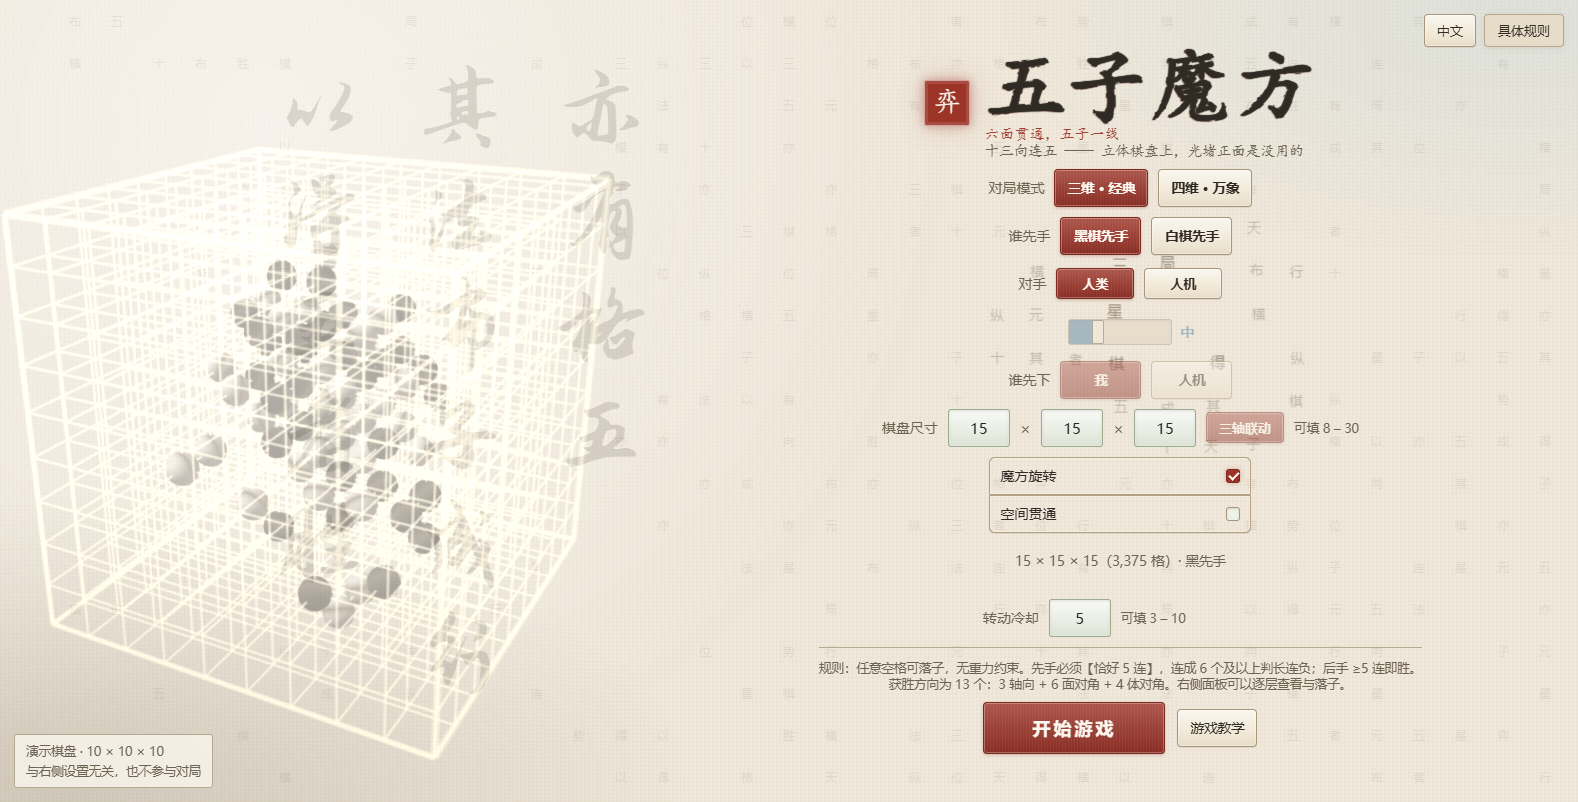
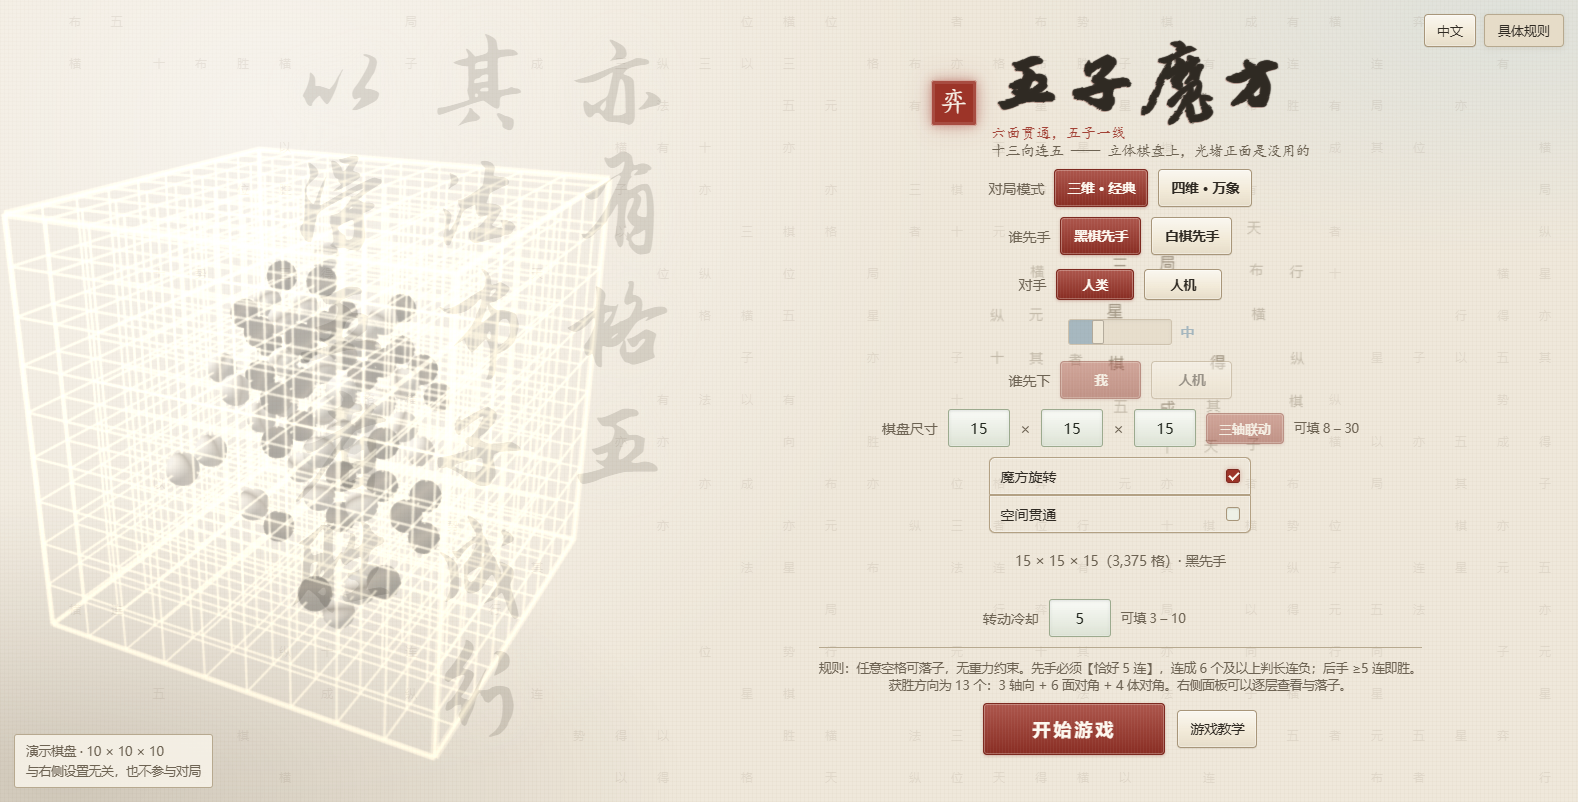
v3.1.6 主标题改行书；修西里尔字母被画成全角；两行小字按语言折行；水印右移放大
【1. 俄语"太长"其实是一个字体回退 bug，不是排版问题】
  .serif 写死了 "KaiTi, STKaiti, …, SimSun"，而标题块三行（h1/.tagline/.sub）
  都挂着这个类。楷体【没有西里尔字形】-> 回退到宋体，而【宋体把西里尔按全角画】。
  实测「Тринадцать направлений — на 3D-доске защиты спереди недостаточно」
  自然宽 856px（65 字符平均 13.2px，几乎一个汉字宽）。
  给 .serif 补上 html.lang-en/fr/ru 的衬线栈（Georgia / Times New Roman）之后是 485px
  —— 窄了 43%；副标题同时 467 -> 255px。
  【这类 bug 的教训】页面本来就有按语言换 body 字体栈的规则，但**类选择器会把它覆盖掉**；
  加"装饰类"时必须同时给它一份按语言的栈。

【2. 两行小字按语言分别定宽度】
  量的是【自然宽】，max-width 卡在中间那条缝里：
    · 副标题  17em：en 223 / fr 239 放得下，ru 255 放不下
      -> 英法一行、俄语两行（"英语没必要另起一行"是明确要求）
    · 下面那行 31.5em：en 444 一行，ru 485 两行 -> 只有俄语折
  下面那行的行高跟着 .95 -> 1.05（原来只服务单行；折两行时 .95 会让字叠在一起）。

【3. 主标题 81px 改成 min(81px, 7.8vw)】
  固定 px 在窄窗口撑破面板：900×700 时留给标题的只有约 402px，
  而 "Gomokube" 在 Georgia 下 81px 要 ~418px —— 实测溢出 27px。
  标题能占的宽 ≈ 0.58×视口 − 120，最长标题约 5.0×字号 + 16 —— 反解得斜率 ~7.8vw。

【4. 主标题改行书】
  标题块原来是楷体（一笔一画、很"板正"）。把水印那支内联字体（Zhi Mang Xing）
  的子集从 14 字扩到 16 字（+魔 +方），woff2 只大了 934 字节（5,556B / base64 7,408B）。
  只挂 html.lang-zh：那支字体只有这 16 个汉字，挂到别的语言只会掉进回退链；
  而且它 (1,1,1) 的选择器能压过 html.lang-en/fr/ru .serif (0,1,2)，
  不会把第 1 条刚修好的东西又打回去。字体栈里留了 STXingkai 当兜底（本机有，不能嵌入）。

【5. 水印整块往右平移 + 放大】
  两条都有硬限制，数字是算出来的：
    · 放大受【高度】卡：最长那列 6 个字要塞进 (100vh − 2×内边距)。
      内边距 7vh->3vh（可用 94vh）、字距 .04em->.01em，字号上限 13vh -> 15vh。
    · 右移受【设置区文字】卡：法语内容最左沿在窄视口下落在 44.4%，右缘最多到 43.5%。
    · 列距 1.35->1.15：字形大了 15%，整块却没变宽，多出来的位移才是真的往右挪。
  实测外框 x 248..670 -> x 279..694（左右都右移），字号 104 -> 120px。

【测试】新增/加严：
[…]

diff --git a/Web_Gomoku3D/index.html b/Web_Gomoku3D/index.html
@@ -555,7 +555,15 @@
   /* 【v3.1.6 放大到 81px】一路 38 -> 54 -> 81（+50%）。放大是有代价的：
      标题块那一行跟着长高，而「六种语言都不用滚动就看得见」那条断言的余量只剩个位数 ——
      见 #setup 那段"第三次收"的注释。这一版从 #ruleNote 的行高里把这一行还了回去。 */
-  #setup h1 { font-size: 81px; margin: 0; font-weight: 600; letter-spacing: 2px; }
+  /* 【81px 是上限，不是定值】固定 px 在窄窗口上会撑破面板：900×700 时 #setup 只有
+     462px 内容宽，减掉印章和间距留给标题的约 402px，而 "Gomokube" 在 Georgia 下
+     81px 要 ~418px —— 实测溢出 27px，"窄屏+英文没有横向滚动"那条断言当场红。
+     标题能占的宽 ≈ 0.58×视口 − 120（面板 58%、内边距 60、印章+间距 60），
+     而最长的标题（Gomokube，8 个字符）约 5.0×字号 + 16px 字距 ——
+     反解出字号 ≤ 0.116×视口 − 27。取 7.8vw 是这条线的一个保守近似：
+       1600/1280/1080 下都是 81px（不缩），900 下 70px，701 下 55px。
+     【为什么不做成 max-width + 省略号】标题被截断比小一号难看得多。 */
+  #setup h1 { font-size: min(81px, 7.8vw); margin: 0; font-weight: 600; letter-spacing: 2px; }
   #setup .sub { color: var(--dim); font-size: 14.5px; margin-top: 4px; }
   .row { display: flex; align-items: center; gap: 10px; flex-wrap: wrap; justify-content: center; }
   /* 每一行占一个固定高度的槽位。三种模式相关的行（三维尺寸 / 四维尺寸 / 转动冷却）
@@ -1029,6 +1037,23 @@
     font-family: "Malgun Gothic", "Apple SD Gothic Neo", "Noto Sans KR",
                  system-ui, sans-serif;
   }
+  /* 【v3.1.6 补：.serif 也得跟着语言换 —— 上面那几条只换了 body】
+     `.serif` 是个类，它把字体栈【又覆盖回】楷体/宋体；而标题块那三行
+     （h1 / .tagline / .sub）都挂着这个类。于是英文/俄语/法语的标题其实是
+     用中文书法字体渲染的。
+     后果在俄语上最刺眼：KaiTi 没有西里尔字形 -> 回退到 SimSun，
+     而【宋体把西里尔字母画成全角宽】。实测「Тринадцать направлений — на
+     3D-доске защиты спереди недостаточно」自然宽 856px —— 65 个字符平均
+     13.2px/字，几乎一个汉字那么宽，比正常衬线宽出约 60%。
+     换掉之后俄语才谈得上"紧凑"，顺带把标题块那一列的整体宽度也带下来了。
+     【为什么是 Georgia / Times New Roman】两者在 Windows 和 macOS 上都带
+     西里尔字形；而且都是衬线 —— 拉丁/西里尔没有"楷体"这种东西，衬线是最近的
+     对应物，和标题上那层墨韵滤镜的气质也接得上。 */
+  html.lang-en .serif,
+  html.lang-fr .serif,
+  html.lang-ru .serif {
+    font-family: Georgia, "Times New Roman", "Source Serif Pro", serif;
+  }
   /* 【这里原来有一条 html.lang-en .rowLabel { width: 138px }，已删除】——
      见上面 .rowLabel 的注释。留一个记号在这里，是因为 browser-check 里
      曾经有一条"英文 .rowLabel 宽 138px"的断言，它现在改成了"行标贴合自己的文字"。
@@ -1144,7 +1169,9 @@
 
        320px 那一档在后面还会把左右内边距再放到 20px，那条在源码里更靠后，照样赢。 */
     #setup { gap: 12px; padding: 16px 22px; }
-    #setup h1 { font-size: 58px; }      /* 跟着基准那档一起放大（38→54→81），比例保持一致 */
+    /* 紧凑档同理：393px 竖屏下 13vw = 51px，320px 下 42px ——
+       都能塞进那一档窄得多的面板，同时不会小到看不出"这是个大标题"。 */
+    #setup h1 { font-size: min(58px, 13vw); }
     #setup .sub { font-size: 13.5px; }
     .seal { width: 38px; height: 38px; font-size: 22px; }
 
@@ -1217,7 +1244,7 @@
      【改动水印文案时必须重新切】新字不在这个子集里就是豆腐块。 */
   @font-face {
     font-family: "BrushSub";
[2 lines of base64/hex data omitted]
     font-display: block;
   }
 
@@ -1271,14 +1298,26 @@
        离最挤的那一种还有约 2% 的余量，而 42% 那条线以右是 #setup 自己的 30px 内边距，
        本来就不放字。
        钉右缘而不是钉左缘：左缘会随视口宽度变，右缘才是"不许越过"的那一侧。 */
-    right: 57.5%; top: 7vh; bottom: 7vh;
+    /* 【v3.1.6：整块往右平移 + 放大】两条都有硬限制，数字是算出来的：
+       · 放大受【高度】卡：最长那列 6 个字要塞进 (100vh − 2×内边距)。
+         内边距 7vh -> 3vh（可用 94vh），字距 .04em -> .01em，
+         于是字号上限从 13vh 提到 15vh（6 × 15 × 1.01 = 90.9vh，留了余量）。
+       · 右移受【设置区文字】卡：法语的内容最左沿在窄视口下落在 44.4%，
+         所以右缘最多到 44%（原来 42.5%）。
+       · 为了让它真的是"往右平移"而不是"只往左长"，列距(1.35)同时收到 1.15 ——
+         字形大了 15%，整块却没变宽，多出来的位移才是真的往右挪。 */
+    /* 【右缘 44% -> 43.5%：让出 8px 的最小间距】
+       44% 时实测法语只剩 4px 余量（水印右缘 563 / 内容最左沿 568），
+       而 browser-check 里那条"不许冲突"要求至少 8px —— 只判"不重叠"的话，
+       4px 也算过，但那种余量下次改一个字就翻脸。43.5% 下法语约 11px。 */
+    right: 56.5%; top: 3vh; bottom: 3vh;
     writing-mode: vertical-rl; text-orientation: upright;
     font-family: "BrushSub", "STXingkai", "华文行楷", "STKaiti", "华文楷体", "KaiTi", "楷体", serif;
     /* 一列 6 个字要塞进 86vh：6 × 字号 × (1+字距) <= 86vh
        -> 字号 <= 13.6vh（字距 .04em 时）。取 13vh，留一点余量。 */
-    font-size: clamp(38px, 13vh, 150px);
-    line-height: 1.35;        /* 竖排下 = 列与列的距离 */
-    letter-spacing: .04em;    /* 竖排下 = 列内字与字的距离 */
+    font-size: clamp(38px, 15vh, 170px);
+    line-height: 1.15;        /* 竖排下 = 列与列的距离 */
+    letter-spacing: .01em;    /* 竖排下 = 列内字与字的距离 */
     color: #332c22; opacity: .15;
     /* 两圈纸色外发光：水印压到演示棋盘上时，靠它把笔画和线框拉开一点距离，
        不然浅色纸底 + 淡墨 + 白色线框会糊成一片。
@@ -1288,6 +1327,21 @@
   }
   /* 只活在起始界面。进对局就把水印收掉 —— 那是"在纸上下棋"，不是"看一幅字"。 */
   #stage:not(.preview) ~ #inscription { display: none; }
+
+  /* ---------- 2b. 主标题的字形：行书（只给中文） ----------
+     标题块三行原来都走 .serif，也就是【楷体】—— 楷书一笔一画、很"板正"。
+     这一版把【主标题】换成行书。
+     【字形从哪来】就是水印那支内联的 Zhi Mang Xing，子集扩到 16 个字
+     （水印那 14 个 + 魔 + 方），woff2 5,556 字节，比原来只大 934 字节。
+     【为什么只挂 html.lang-zh】这支字体是中文毛笔行书，子集里也只有这 16 个汉字；
+     日文假名、韩文谚文、西里尔、拉丁一个都没有，挂上去只会掉进回退链。
+     选择器 (1,1,1) 能稳稳压过 html.lang-en/fr/ru .serif 那几条 (0,1,2)，
+     不会把已经修好的"拉丁/西里尔走衬线"又打回去。
+     【为什么不用华文行楷 STXingkai】本机确实有，但它不能嵌进仓库；放进字体栈当兜底
+     是可以的，所以栈里留了它 —— 子集缺字时（比如以后名字改了）还能接上。 */
+  html.lang-zh #setup h1 {
+    font-family: "BrushSub", "STXingkai", "华文行楷", "KaiTi", "SimSun", serif;
+  }
 
   /* ---------- 3. 主标题：代码生成的墨韵 ----------
      字形仍然是【真字】——走 h1 的文本节点，所以
@@ -1508,8 +1562,13 @@
        "Пять в ряд сквозь все шесть граней" 一行要 240px。
        夹到 13em(≈189px) 之后：中文/日文/韩文那三条本来就短（约 130px），仍然一行；
        英/俄/法自然折成两行，在标题下面形成一块紧凑的方阵，而不是一条长线。
-       【为什么用 em 而不是 px】em 跟字号走 —— 以后调字号时这个比例关系不用重算。 */
-    max-width: 13em;
+       【为什么用 em 而不是 px】em 跟字号走 —— 以后调字号时这个比例关系不用重算。
+       【17em 这个数是量出来的】六种语言的副标题自然宽（换成 Georgia 之后）：
+         zh 135 / en 223 / ja 135 / ko 151 / ru 255 / fr 239
+       17em = 246px 正好卡在"英语(223)和法语(239)放得下、俄语(255)放不下"之间：
+       于是英/法各一行、俄语两行 —— 正是要的"英语不必另起一行，俄语还是要折"。
+       再宽一点俄语就一行了，再窄一点法语就跟着折。 */
+    max-width: 17em;
   }
   /* 标题块那三行的行高各收一点 —— 和上面 #setup 的内边距一起，把新增的
      那一行还给「开始游戏」。收行高不会让任何一行换行（这三行都是单行短句），
@@ -1519,7 +1578,15 @@
      收紧只是减少行盒之间的空隙，不会让任何一行换行、也不会盖住谁。
      CJK 字形的实际高度约 0.88em，0.94 的行盒装得下。 */
   #setup h1 { line-height: .94; }
-  #setup .sub { margin-top: 2px; line-height: .95; }
+  /* 【下面那行也夹宽度，而且只让俄语折】
+     自然宽：zh 319 / en 444 / ja 348 / ko 355 / ru 485 / fr 425。
+     31.5em = 456px 卡在"英语(444)一行、俄语(485)两行"之间。
+     （这两个数是在 .serif 换成 Georgia 之后量的 —— 换之前俄语这行是 856px，
+      因为它被回退到宋体、西里尔字母按全角画，那是另一个 bug，见上面字体那一段。）
+     【行高必须从 .95 抬起来】它原来是单行的紧凑值；俄语折成两行之后 .95 会让
+     两行叠在一起（14.5 × .95 = 13.8px，而字形本身高约 12.8px）。1.05 是
+     "两行分得开、单行也几乎不增高"的最小值。 */
+  #setup .sub { margin-top: 2px; line-height: 1.05; max-width: 31.5em; }
   /* 跟住紧凑档（断点必须和上面 @media (pointer: coarse), (max-width: 700px) 一致）。
      这一条放在本段末尾、也就是整个文件最后，才能盖住前面那条 #setup .sub 的档位。 */
   @media (pointer: coarse), (max-width: 700px) {
